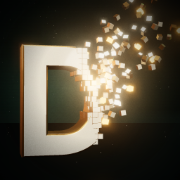
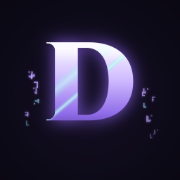
docs(brand): simple enchanted DIN wordmark (#25)

diff --git a/context/v2/brand/source/scene.html b/context/v2/brand/source/scene.html
@@ -1,155 +1,86 @@
-<!doctype html><html><head><meta charset="utf-8">
-<style>
-html,body{margin:0;width:100%;height:100%;overflow:hidden;background:transparent}
-#stage{position:relative;width:100vw;height:100vh;overflow:hidden}
-canvas{position:absolute;inset:0;width:100%;height:100%;display:block}
-.fx{position:absolute;inset:0;pointer-events:none}
-.vignette{background:radial-gradient(ellipse at 50% 46%,transparent 40%,rgba(2,4,4,.55) 78%,rgba(1,2,2,.92) 100%)}
-.grain{opacity:.07;mix-blend-mode:overlay}
-.bars:before,.bars:after{content:"";position:absolute;left:0;right:0;height:8%;background:#020303}
-.bars:before{top:0}.bars:after{bottom:0}
-.title{position:absolute;left:0;right:0;text-align:center;color:#efe4c6;font-family:"Segoe UI","Helvetica Neue",Arial,sans-serif}
-.title .name{font-weight:300;font-size:var(--name,30px);letter-spacing:.78em;padding-left:.78em;text-shadow:0 0 22px rgba(255,200,130,.35)}
-.title .rule{display:flex;align-items:center;justify-content:center;gap:20px;margin-top:var(--gap,14px);font-weight:600;font-size:var(--sub,11px);letter-spacing:.6em;padding-left:.6em;color:#c9a35a}
-.title .rule i{display:block;width:var(--line,80px);height:1px;background:linear-gradient(90deg,transparent,#c9a35a)}
-.title .rule i:last-child{transform:scaleX(-1)}
-</style></head><body><div id="stage"></div>
-<script type="importmap">{"imports":{"three":"https://cdn.jsdelivr.net/npm/three@0.160.0/build/three.module.js","three/addons/":"https://cdn.jsdelivr.net/npm/three@0.160.0/examples/jsm/"}}</script>
-<script type="module">
-import * as THREE from 'three';
-import { FontLoader } from 'three/addons/loaders/FontLoader.js';
-import { TextGeometry } from 'three/addons/geometries/TextGeometry.js';
-import { RoomEnvironment } from 'three/addons/environments/RoomEnvironment.js';
-import { EffectComposer } from 'three/addons/postprocessing/EffectComposer.js';
-import { RenderPass } from 'three/addons/postprocessing/RenderPass.js';
-import { UnrealBloomPass } from 'three/addons/postprocessing/UnrealBloomPass.js';
-import { OutputPass } from 'three/addons/postprocessing/OutputPass.js';
+<!doctype html><html lang="en"><head><meta charset="utf-8"><title>DIN brand</title>
+<link href="https://fonts.googleapis.com/css2?family=Cinzel:wght@700;900&family=Inter:wght@300;600&display=block" rel="stylesheet">
+<style>html,body{margin:0;width:100%;height:100%;overflow:hidden;background:transparent}canvas{display:block}</style></head><body><canvas id="c"></canvas>
+<script>
+// DIN — enchanted. Modes: keyart | logo (transparent; &title=0 for the mark only) | emblem.
+const Q = new URLSearchParams(location.search), MODE = Q.get('mode') || 'keyart', TITLE = Q.get('title') !== '0';
+const W = innerWidth, H = innerHeight, dpr = devicePixelRatio, cv = document.getElementById('c');
+cv.width = W * dpr; cv.height = H * dpr; cv.style.width = W + 'px'; cv.style.height = H + 'px';
+const g = cv.getContext('2d'); g.scale(dpr, dpr);
+let seed = +(Q.get('seed') || 5); const rnd = () => (seed = (seed * 16807) % 2147483647) / 2147483647;
+const COL = { white: '#f6f1ff', lilac: '#cdb8ff', violet: '#8f6be8', indigo: '#3a2a78', teal: '#7ff5e0', bg0: '#0a0812', bg1: '#140f24', cream: '#eee3be', gold: '#c9a35a' };
 
-const P = new URLSearchParams(location.search);
-const MODE = P.get('mode') || 'keyart';          // keyart | logo | emblem
-const TEXT = MODE === 'emblem' ? 'D' : 'DIN';
-const W = innerWidth, H = innerHeight, stage = document.getElementById('stage');
-const rnd = (() => { let s = +(P.get('seed') || 7); return () => (s = (s * 16807) % 2147483647) / 2147483647; })();
-
-const renderer = new THREE.WebGLRenderer({ antialias: true, alpha: true, preserveDrawingBuffer: true });
-renderer.setPixelRatio(devicePixelRatio); renderer.setSize(W, H); renderer.setClearColor(0, 0);
-renderer.shadowMap.enabled = true; renderer.shadowMap.type = THREE.PCFSoftShadowMap;
-renderer.toneMapping = THREE.ACESFilmicToneMapping; renderer.toneMappingExposure = 1.0;
-renderer.localClippingEnabled = true;
-stage.appendChild(renderer.domElement);
-const scene = new THREE.Scene();
-scene.environment = new THREE.PMREMGenerator(renderer).fromScene(new RoomEnvironment(), .04).texture;
-scene.environmentIntensity = .35;
-const camera = new THREE.PerspectiveCamera(MODE === 'emblem' ? 26 : 24, W / H, .1, 500);
-
-// ---------- materials ----------
-const face = new THREE.MeshPhysicalMaterial({ color: '#efe3c2', roughness: .42, metalness: .05, clearcoat: .35, clearcoatRoughness: .4 });
-const side = new THREE.MeshPhysicalMaterial({ color: '#b98d45', roughness: .32, metalness: .95 });
-const ember = new THREE.MeshStandardMaterial({ color: '#2a1a08', emissive: new THREE.Color('#ffb040'), emissiveIntensity: 3.2 });
-// a few cubes are grass blocks: the world forming as the letters break apart
-function pixTex(draw) { const c = document.createElement('canvas'); c.width = c.height = 16; draw(c.getContext('2d')); const t = new THREE.CanvasTexture(c); t.magFilter = THREE.NearestFilter; t.colorSpace = THREE.SRGBColorSpace; return t; }
-const pick = a => a[Math.floor(rnd() * a.length)];
-const gTop = pixTex(g => { for (let y = 0; y < 16; y++) for (let x = 0; x < 16; x++) { g.fillStyle = pick(['#7fae45', '#8fbe52', '#6f9e3c', '#9bc95c']); g.fillRect(x, y, 1, 1); } });
-const gSide = pixTex(g => { for (let y = 0; y < 16; y++) for (let x = 0; x < 16; x++) { g.fillStyle = pick(['#86603f', '#7a5739', '#93694a', '#6c4d34']); g.fillRect(x, y, 1, 1); } for (let x = 0; x < 16; x++) { const d = 3 + Math.floor(rnd() * 3); for (let y = 0; y < d; y++) { g.fillStyle = pick(['#7fae45', '#8fbe52', '#6f9e3c']); g.fillRect(x, y, 1, 1); } } });
-const gs = new THREE.MeshStandardMaterial({ map: gSide, roughness: .8 }), gt = new THREE.MeshStandardMaterial({ map: gTop, roughness: .8 });
-const GRASS = [gs, gs, gt, gs, gs, gs];
-
-// ---------- letters ----------
-const font = await new Promise((ok, no) => new FontLoader().load('https://cdn.jsdelivr.net/npm/three@0.160.0/examples/fonts/helvetiker_bold.typeface.json', ok, undefined, no));
-const SIZE = 7, DEPTH = 2.0;
-const geo = new TextGeometry(TEXT, { font, size: SIZE, height: DEPTH, curveSegments: 16, bevelEnabled: true, bevelThickness: .22, bevelSize: .12, bevelSegments: 5 });
-geo.computeBoundingBox(); const bb = geo.boundingBox; const cx = (bb.max.x + bb.min.x) / 2;
-geo.translate(-cx, -bb.min.y, -(bb.max.z + bb.min.z) / 2); geo.computeBoundingBox();
-const B = geo.boundingBox, width = B.max.x - B.min.x;
-const logo = new THREE.Group(); scene.add(logo);
-
-// break-up front: solid where u = x + k*y < cut
-const K = .22, CUT = B.min.x + width * (MODE === 'emblem' ? .84 : MODE === 'logo' ? .9 : .87);
-const n = new THREE.Vector3(-1, -K, 0); const len = n.length(); n.normalize();
-const clip = new THREE.Plane(n, CUT / len);       // keeps points where n·p + c >= 0  ->  x + K*y <= CUT
-const faceC = face.clone(), sideC = side.clone(); faceC.clippingPlanes = sideC.clippingPlanes = [clip]; faceC.clipShadows = sideC.clipShadows = true;
-const solid = new THREE.Mesh(geo, [faceC, sideC]); solid.castShadow = solid.receiveShadow = true; logo.add(solid);
-
-// voxelise the letters beyond the cut by ray-testing the solid shape
-const probe = new THREE.Mesh(geo, new THREE.MeshBasicMaterial({ side: THREE.DoubleSide }));
-const ray = new THREE.Raycaster(); const V = .36, cubes = [];
-const zLayers = Math.max(1, Math.round((B.max.z - B.min.z) / V));
-for (let y = B.min.y + V / 2; y < B.max.y; y += V) for (let x = B.min.x + V / 2; x < B.max.x; x += V) {
-  const u = x + K * y; if (u < CUT - V) continue;
-  ray.set(new THREE.Vector3(x, y, 50), new THREE.Vector3(0, 0, -1));
-  if (!ray.intersectObject(probe).length) continue;
-  for (let zi = 0; zi < zLayers; zi++) cubes.push({ x, y, z: B.max.z - V / 2 - zi * V, d: u - CUT });
+// Original abstract runes: a stem, a tick or two and a detached dot on a 4x5 grid. Not letters, not a copied script.
+function makeRune() {
+  const m = Array.from({ length: 5 }, () => [0, 0, 0, 0]);
+  const stem = Math.floor(rnd() * 4), from = Math.floor(rnd() * 2), to = 3 + Math.floor(rnd() * 2);
+  for (let y = from; y <= to; y++) m[y][stem] = 1;
+  for (let k = 0; k < 1 + Math.floor(rnd() * 2); k++) { const y = from + Math.floor(rnd() * (to - from + 1)), dir = stem < 2 ? 1 : -1, len = 1 + Math.floor(rnd() * 2); for (let i = 1; i <= len; i++) { const x = stem + dir * i; if (x >= 0 && x < 4) m[y][x] = 1; } }
+  const dy = rnd() < .5 ? 0 : 4, dx = stem < 2 ? 3 : 0; if (!m[dy][dx]) m[dy][dx] = 1;
+  return m;
 }
-const dMax = Math.max(...cubes.map(c => c.d));
-const buckets = new Map(); const add = (mats, m) => { if (!buckets.has(mats)) buckets.set(mats, []); buckets.get(mats).push(m); };
-const FACE = [side, side, side, side, face, side];
-for (const c of cubes) {
-  const t = Math.max(0, c.d) / dMax;                    // 0 at the break, 1 at the far edge
-  const noise = (rnd() - .5) * .35;
-  const loose = t + noise > .2;
-  if (loose && rnd() < Math.min(.85, (t + noise) * 1.25)) continue;  // thin out as it disperses
-  const m = new THREE.Matrix4();
-  if (!loose) { m.makeTranslation(c.x, c.y, c.z); add(FACE, m); continue; }
-  const f = Math.pow(t + Math.max(0, noise), 1.6);
-  const pos = new THREE.Vector3(c.x + f * (3.5 + rnd() * 3), c.y + f * (4 + rnd() * 5), c.z + f * (rnd() * 6 - 1));
-  const rot = new THREE.Euler(f * (rnd() - .5) * 5, f * (rnd() - .5) * 5, f * (rnd() - .5) * 5);
-  const s = 1 - f * .45 * rnd();
-  m.compose(pos, new THREE.Quaternion().setFromEuler(rot), new THREE.Vector3(s, s, s));
-  const r = rnd();
-  add(r < .07 ? [ember, ember, ember, ember, ember, ember] : (f > .5 && r < .2) ? GRASS : FACE, m);
+const RUNES = Array.from({ length: 16 }, makeRune);
+function rune(x, y, u, alpha, color) {
+  const r = RUNES[Math.floor(rnd() * RUNES.length)]; g.globalAlpha = alpha; g.fillStyle = color;
+  r.forEach((row, j) => row.forEach((k, i) => k && g.fillRect(Math.round(x + i * u), Math.round(y + j * u), Math.ceil(u), Math.ceil(u)))); g.globalAlpha = 1;
 }
-const cube = new THREE.BoxGeometry(V * .96, V * .96, V * .96);
-for (const [mats, list] of buckets) { const im = new THREE.InstancedMesh(cube, mats, list.length); list.forEach((m, i) => im.setMatrixAt(i, m)); im.castShadow = im.receiveShadow = true; logo.add(im); }
-
-// ---------- lights ----------
-const key = new THREE.SpotLight('#ffd7a0', 260, 120, .42, .6, 1.6); key.position.set(-14, 22, 24); key.target.position.set(0, 3, 0);
-key.castShadow = true; key.shadow.mapSize.set(2048, 2048); key.shadow.bias = -.0004; scene.add(key, key.target);
-const rim = new THREE.DirectionalLight('#7fe0c0', 2.2); rim.position.set(18, 10, -20); scene.add(rim);
-const rim2 = new THREE.DirectionalLight('#ffb070', 1.4); rim2.position.set(-20, 4, -16); scene.add(rim2);
-const fill = new THREE.HemisphereLight('#2d3b38', '#0a0806', .5); scene.add(fill);
-const glow = new THREE.PointLight('#ffb040', 14, 12, 2); glow.position.set(B.min.x + width * .8, 5, 2); logo.add(glow);
-
-// ---------- environment ----------
-const composer = new EffectComposer(renderer); composer.addPass(new RenderPass(scene, camera));
-if (MODE !== 'logo') {
-  scene.background = new THREE.Color('#050807');
-  scene.fog = new THREE.Fog('#050807', 40, 120);
-  const floor = new THREE.Mesh(new THREE.PlaneGeometry(400, 400), new THREE.MeshPhysicalMaterial({ color: '#0b100e', roughness: .28, metalness: .2, clearcoat: .6, clearcoatRoughness: .25 }));
-  floor.rotation.x = -Math.PI / 2; floor.receiveShadow = true; scene.add(floor);
-  // haze glow behind the letters
-  const hc = document.createElement('canvas'); hc.width = hc.height = 256; const hg = hc.getContext('2d'); const gr = hg.createRadialGradient(128, 128, 0, 128, 128, 128);
-  gr.addColorStop(0, 'rgba(90,130,110,.32)'); gr.addColorStop(.35, 'rgba(50,75,62,.12)'); gr.addColorStop(1, 'rgba(0,0,0,0)'); hg.fillStyle = gr; hg.fillRect(0, 0, 256, 256);
-  const ht = new THREE.CanvasTexture(hc); ht.colorSpace = THREE.SRGBColorSpace;
-  const haze = new THREE.Sprite(new THREE.SpriteMaterial({ map: ht, transparent: true, depthWrite: false, blending: THREE.AdditiveBlending, fog: false }));
-  haze.position.set(2, 5, -30); haze.scale.set(90, 55, 1); scene.add(haze);
-  // dust motes in the key light
-  const N = 600, pos = new Float32Array(N * 3); for (let i = 0; i < N; i++) { pos[i * 3] = (rnd() - .5) * 60; pos[i * 3 + 1] = rnd() * 22; pos[i * 3 + 2] = -25 + rnd() * 40; }
-  const pg = new THREE.BufferGeometry(); pg.setAttribute('position', new THREE.BufferAttribute(pos, 3));
-  const dc = document.createElement('canvas'); dc.width = dc.height = 32; const dg = dc.getContext('2d'); const dgr = dg.createRadialGradient(16, 16, 0, 16, 16, 16); dgr.addColorStop(0, 'rgba(255,225,180,1)'); dgr.addColorStop(1, 'rgba(255,200,140,0)'); dg.fillStyle = dgr; dg.fillRect(0, 0, 32, 32);
-  scene.add(new THREE.Points(pg, new THREE.PointsMaterial({ size: .16, map: new THREE.CanvasTexture(dc), transparent: true, depthWrite: false, blending: THREE.AdditiveBlending, opacity: .7 })));
-  composer.addPass(new UnrealBloomPass(new THREE.Vector2(W, H), .35, .5, .92));
+// Runes drift in two loose clusters either side of the word, rising toward it and fading as they near it.
+function runeStream(cx, cy, halfW, height, count, uMax, reach = .9) {
+  g.save(); g.shadowColor = COL.violet; g.shadowBlur = uMax * 3;
+  for (let i = 0; i < count; i++) {
+    const side = i % 2 ? 1 : -1, t = rnd();                // t: 0 = outer and low, 1 = close to the word
+    const x = cx + side * (halfW + (1 - t) * halfW * reach + rnd() * halfW * .15);
+    const y = cy + height * (.45 - t * .7) + (rnd() - .5) * height * .3;
+    const u = Math.max(1.4, uMax * (.55 + rnd() * .45));
+    rune(x - 2 * u, y - 2.5 * u, u, .25 + .55 * t, rnd() < .3 ? COL.teal : COL.lilac);
+  }
+  g.restore();
 }
-composer.addPass(new OutputPass());
-
-if (MODE === 'emblem') { camera.position.set(-1, 4, 27); camera.lookAt(1.6, 4.4, 0); logo.rotation.y = .14; }
-else if (MODE === 'logo') { camera.position.set(-2, 3.6, 46); camera.lookAt(1.2, 4.6, 0); logo.rotation.y = .16; }
-else { camera.position.set(-5, 2.4, 50); camera.lookAt(1.2, 2.2, 0); logo.rotation.y = .16; }
-
-// ---------- 2D overlays ----------
-function addFx() {
-  const v = document.createElement('div'); v.className = 'fx vignette'; stage.appendChild(v);
-  const g = document.createElement('canvas'); g.className = 'fx grain'; g.width = W; g.height = H; const gc = g.getContext('2d'); const id = gc.createImageData(W, H);
-  for (let i = 0; i < id.data.length; i += 4) { const q = 128 + (rnd() - .5) * 255; id.data[i] = id.data[i + 1] = id.data[i + 2] = q; id.data[i + 3] = 255; } gc.putImageData(id, 0, 0); stage.appendChild(g);
+// The enchanted word: soft violet glow, smooth lilac-to-indigo fill, a crisp top light, two diagonal glint bands.
+function enchanted(text, cx, cy, size, weight = 900) {
+  const font = `${weight} ${size}px Cinzel`;
+  g.save(); g.font = font; g.textAlign = 'center'; g.textBaseline = 'middle';
+  g.shadowColor = 'rgba(150,105,255,.85)'; g.shadowBlur = size * .28; g.fillStyle = COL.indigo; g.fillText(text, cx, cy); g.restore();
+  const oc = document.createElement('canvas'); oc.width = W * dpr; oc.height = H * dpr; const o = oc.getContext('2d'); o.scale(dpr, dpr);
+  o.font = font; o.textAlign = 'center'; o.textBaseline = 'middle';
+  const fill = o.createLinearGradient(0, cy - size * .42, 0, cy + size * .42);
+  fill.addColorStop(0, COL.white); fill.addColorStop(.35, COL.lilac); fill.addColorStop(.7, COL.violet); fill.addColorStop(1, COL.indigo);
+  o.fillStyle = fill; o.fillText(text, cx, cy);
+  o.globalCompositeOperation = 'source-atop';
+  const w = o.measureText(text).width;
+  for (const [pos, wd, a] of [[.32, .05, .55], [.44, .022, .8]]) {
+    const gl = o.createLinearGradient(cx - w / 2, cy - size / 2, cx + w / 2, cy + size / 2);
+    gl.addColorStop(Math.max(0, pos - wd), 'rgba(127,245,224,0)'); gl.addColorStop(pos, `rgba(200,255,245,${a})`); gl.addColorStop(Math.min(1, pos + wd), 'rgba(127,245,224,0)');
+    o.fillStyle = gl; o.fillRect(0, 0, W, H);
+  }
+  const top = o.createLinearGradient(0, cy - size * .42, 0, cy - size * .3); top.addColorStop(0, 'rgba(255,255,255,.7)'); top.addColorStop(1, 'rgba(255,255,255,0)');
+  o.fillStyle = top; o.fillRect(0, 0, W, H);
+  g.drawImage(oc, 0, 0, W, H);
+  return w;
 }
-function addTitle(top, scale = 1) {
-  const t = document.createElement('div'); t.className = 'title'; t.style.top = top;
-  for (const [k, v] of [['--name', 30], ['--sub', 11], ['--gap', 14], ['--line', 80]]) t.style.setProperty(k, `${v * scale}px`);
-  t.innerHTML = '<div class="name">JON VINCENT DIN</div><div class="rule"><i></i>WORLD OF BUILDS<i></i></div>'; stage.appendChild(t);
+function credit(cx, y, scale) {
+  g.save(); g.textAlign = 'center'; g.fillStyle = COL.cream; g.font = `300 ${22 * scale}px Inter`; g.letterSpacing = `${17 * scale}px`; g.fillText('JON VINCENT DIN', cx + 8 * scale, y);
+  g.font = `600 ${10.5 * scale}px Inter`; g.letterSpacing = `${6.5 * scale}px`; g.fillStyle = COL.lilac; g.fillText('WORLD OF BUILDS', cx + 3 * scale, y + 28 * scale);
+  const lw = 70 * scale; g.fillStyle = 'rgba(205,184,255,.5)'; g.fillRect(cx - 120 * scale - lw, y + 24 * scale, lw, 1); g.fillRect(cx + 120 * scale, y + 24 * scale, lw, 1); g.restore();
 }
-if (MODE === 'keyart') { addFx(); if (P.get('title') !== '0') addTitle('77%', W / 1920 * 1.2); const b = document.createElement('div'); b.className = 'fx bars'; stage.appendChild(b); }
-if (MODE === 'emblem') addFx();
-if (MODE === 'logo' && P.get('title') !== '0') addTitle('80%', W / 1200 * 1.1);
-
-for (let i = 0; i < 3; i++) MODE === 'logo' ? renderer.render(scene, camera) : composer.render();
-window.__done = true;
+function backdrop(cy) {
+  const bg = g.createRadialGradient(W / 2, cy, 0, W / 2, cy, Math.max(W, H) * .75);
+  bg.addColorStop(0, COL.bg1); bg.addColorStop(1, COL.bg0); g.fillStyle = bg; g.fillRect(0, 0, W, H);
+}
+(async () => {
+  await Promise.all(['900 100px Cinzel', '300 20px Inter', '600 10px Inter'].map(f => document.fonts.load(f)));
+  if (MODE === 'keyart') {
+    const cy = H * .45, size = H * .3; backdrop(cy);
+    const w = enchanted('DIN', W / 2, cy, size); runeStream(W / 2, cy, w / 2 + size * .25, size, 26, H / 200);
+    if (TITLE) credit(W / 2, H * .78, H / 720);
+  } else if (MODE === 'emblem') {
+    const cy = H * .53, size = H * .62; backdrop(cy);
+    const w = enchanted('D', W / 2, cy, size); runeStream(W / 2, cy, w / 2 + size * .02, size * .9, 16, H / 120, .22);
+  } else {
+    const size = H * (TITLE ? .42 : .62), cy = TITLE ? H * .4 : H * .52;
+    const w = enchanted('DIN', W / 2, cy, size); runeStream(W / 2, cy, w / 2 + size * .12, size, 18, size / 70, .4);
+    if (TITLE) credit(W / 2, H * .8, H / 600 * 1.1);
+  }
+  window.__done = true;
+})();
 </script></body></html>

diff --git a/context/v2/BRAND.md b/context/v2/BRAND.md
@@ -1,35 +1,48 @@
-# Brand — DIN, breaking into blocks
+# Brand — DIN, enchanted
 
-Revised 2026-10-26. History: a flat pixel "JVD" logo, then block-built "JVD" and "DIN" scenes at dusk. The owner rejected each one: not cinematic, letters built from cubes looked crude, textures looked cheap, and the landscape scene didn't fit. The owner chose this direction: **solid letters whose edges break into blocks**.
+Revised 2026-10-26. The owner asked for something **simple and iconic, not cinematic**, and chose the "Enchanted" concept from a round of options. Earlier directions (pixel JVD, block-built letters, letters breaking into cubes, cinematic dusk scenes) were rejected; see PROGRESS.md.
 
 ## Concept
 
-- **Solid, premium letters.** "DIN" (Jon's surname) as a heavy sans-serif sculpted in 3D: warm cream stone faces with a soft clearcoat, and polished gold-metal sides and bevels.
-- **Minecraft as a hint, not a costume.** The N's right stem breaks apart into cubes. Next to the break they are still aligned in a grid; further out they drift up and to the right, turning and thinning out. A few glow like embers, and a few of the far ones are tiny grass blocks: the world forming as the letter breaks apart.
-- **A film title card.** Near-black void with an olive-teal haze, a glossy dark floor, a warm key spotlight, teal and amber rim lights, dust in the light, light bloom, film grain and letterbox. "JON VINCENT DIN" in light, widely tracked sans-serif, over "WORLD OF BUILDS" in small gold capitals between hairlines.
-- **Emblem.** The same treatment on a single "D".
+- **One word, one effect.** "DIN" (Jon's surname) in a classical serif (Cinzel Black), carrying the shimmer of an enchanted item from the game: a lilac-white to violet-indigo fill, a crisp top light, two thin diagonal teal glints, and a soft violet glow.
+- **Runes as the only decoration.** A few small, original pixel runes drift in loose clusters beside the word, rising toward it and fading as they get close, like the glyphs that float into an enchanting table. They never overlap the letters or the credit line. They are generated from simple rules (a stem, a tick or two, a detached dot on a 4×5 grid), so they are not letters and not a copied script.
+- **Credit line.** "JON VINCENT DIN" in light, widely tracked Inter, over "WORLD OF BUILDS" in small lilac capitals between hairlines.
+- **Emblem.** A single enchanted "D" with a few runes, for square spaces.
 
 ## Files (all PNG, in `brand/`)
 
 | File | Size | Use |
 | --- | --- | --- |
-| `din-keyart.png` | 2560×1440 | Hero key art: intro poster frame, social/OG image, README banner |
-| `din-logo.png` | 1600×1222, transparent | Primary logo with name and tagline, for dark backgrounds |
-| `din-logo-mark-only.png` | 1330×875, transparent | Letters and cubes only. HUD/header logo (the link to `/editor`), 44–64px tall |
-| `din-emblem.png` | 1024×1024 | Square "D" emblem: avatar, app icon, OG fallback |
+| `din-keyart.png` | 2560×1440 | Banner/OG image on the deep violet background |
+| `din-logo.png` | 1933×994, transparent | Primary logo with the credit line |
+| `din-logo-mark-only.png` | 2466×909, transparent | Word and runes only. Header/HUD logo (the link to `/editor`) |
+| `din-emblem.png` | 1024×1024 | Square "D" emblem: avatar, app icon |
 | `din-icon-512.png`, `-180.png`, `-64.png`, `-32.png` | as named | PWA icon, Apple touch icon, favicons |
+
+## Colors
+
+| Token | Value | Use |
+| --- | --- | --- |
+| `--enchant-white` | #f6f1ff | Top of the letter fill |
+| `--enchant-lilac` | #cdb8ff | Fill, runes, tagline |
+| `--enchant-violet` | #8f6be8 | Fill, glow |
+| `--enchant-indigo` | #3a2a78 | Bottom of the fill |
+| `--enchant-teal` | #7ff5e0 | Glints, some runes |
+| `--enchant-bg` | #0a0812 → #140f24 | Key-art and emblem background |
+
+This violet accent is new next to the site's olive/forest palette (DESIGN_SYSTEM.md). Decide in V2-01 whether violet becomes the site accent or stays reserved for the brand mark.
 
 ## Rules
 
-- Dark backgrounds only (#050807–#1c2e22). The transparent logos are lit for dark surroundings.
-- Don't recolor, stretch or crop into the cube trail; the trail is part of the mark. Scale down only.
-- Below 44px tall, use the emblem icons.
+- Use on dark backgrounds only. The transparent logos rely on their glow.
+- Don't recolor, stretch or add effects. Scale down only.
+- Below about 120px wide, use the emblem icons instead of the wordmark.
 - The header logo's accessible name is "Jon Vincent Din — editor sign-in"; its `alt` text is "DIN — Jon Vincent Din".
-- The key art's text is part of the image. On the live page, set the name in real HTML and use a text-free render (`&title=0`) where the text must be selectable.
+- On the live site, set the name and tagline as real HTML text where they must be selectable; the PNGs have them baked in.
 
 ## Regenerating
 
-`brand/source/scene.html` builds the scene with three.js 0.160.0, loaded from jsDelivr for design tooling only; the site keeps its own renderer. The letters use the MgOpen Moderna typeface that ships with three.js as `helvetiker_bold` (permissive MgOpen license).
+`brand/source/scene.html` draws everything on a 2D canvas. It loads Cinzel and Inter from Google Fonts (both under the SIL Open Font License).
 
 ```
 node context/v2/brand/source/render.mjs <out.png> keyart 1920 1080 1.3333333
@@ -40,13 +53,8 @@ node context/v2/brand/source/post.mjs trim   <in.png> <out.png>
 node context/v2/brand/source/post.mjs resize <in.png> <out.png> <size>
 ```
 
-Rendering needs Microsoft Edge (Playwright's `msedge` channel) and network access. The `seed` query parameter changes the cube scatter.
+Rendering needs Microsoft Edge (Playwright's `msedge` channel) and network access for the fonts. The `seed` query parameter changes the runes.
 
 ## Motion tie-in
 
-The brand is a frozen frame of the intro's main move, so the intro should play it in reverse and then forward:
-
-1. Cubes stream in from the upper right and snap into grid position, assembling D, I and N. The grid cubes then fuse into the solid, smooth letters, with a gold edge-light sweeping across as each letter becomes solid.
-2. On Enter world, the letters break apart into cubes again, as in the key art, but completely. The cubes fly past the camera and become the world the visitor scrolls into.
-
-Use the break-line function from `scene.html` (the solid region is `x + 0.22·y < cut`) so the live animation and the PNGs match.
+The mark animates easily, with no 3D: the runes drift up and fade into the word, and the teal glints sweep across the letters every few seconds, like an enchanted item in the game's inventory. Use it in the intro (features/01-INTRO.md) and as a subtle hover on the header logo. Respect reduced motion: the glint stays still and the runes stay where they are.

diff --git a/context/v2/PROGRESS.md b/context/v2/PROGRESS.md
@@ -51,3 +51,16 @@
 - Re-rendered all `din-*.png` files. The emblem is a breaking "D". The key art dropped from 3.9 MB to 1.7 MB.
 - Updated BRAND.md and the intro, storyboard, milestone and decision references: the intro assembles the letters from cubes and breaks them apart on Enter.
 - Checks: viewed every render, plus a contact sheet on the site background including 64px and 32px icons. All final files came from the committed scripts.
+
+## 2026-10-26 (Asia/Singapore): brand changed to "DIN, enchanted"
+
+- The owner asked to change the breaking-cubes logo and wanted "something simple, iconic", not cinematic.
+- Showed three 3D/serif concepts (pickaxe as the I, enchanted, gold title with a grass block), then eight flat ideas. The owner chose the **Enchanted** concept.
+- Rewrote `brand/source/scene.html` as a 2D canvas render:
+  - Cinzel Black "DIN" with a lilac-to-indigo fill, a top light, two teal glints and a violet glow.
+  - Original procedural pixel runes in loose clusters beside the word, kept clear of the text.
+  - An Inter credit line.
+- Re-rendered all `din-*.png` files. The emblem is an enchanted "D". The key art is 653 KB.
+- BRAND.md rewritten, including the new violet colors. The intro, storyboard, milestone and decision references now describe runes rising into the word and a glint sweep.
+- Open point: violet is new next to the olive site palette; decide in V2-01.
+- Checks: viewed the key art, logo and emblem, plus a contact sheet including the 64px and 32px icons. All final files came from the committed scripts.

diff --git a/context/v2/STORYBOARD.md b/context/v2/STORYBOARD.md
@@ -25,7 +25,7 @@ Notation:
 Keeps the v1 contract: real asset readiness, an explicit **Enter world**, replay, and pause/reduced motion. It is longer and deeper.
 
 1. **Black → world loads.** Letterbox bars. A chunk-loading grid fades in: blocks pop into a low-poly landscape tile by tile, from the centre outward, with progress tied to real asset loading. The pixel progress bar fills like a Minecraft XP bar.
-2. **The logo builds.** Cubes stream in from the upper right, snap into a grid forming D, I and N, then fuse into solid cream-and-gold letters as a gold edge-light sweeps across. A few cubes stay drifting off the N, as in the brand key art.
+2. **The logo appears.** Original pixel runes rise from the edges and fade into "DIN" as it brightens into its enchanted violet fill, then a teal glint sweeps across the letters.
 3. **Ready.** The name types on in pixel type, letter by letter, each letter blinking once like a cursor. Clouds drift in parallax and particles rise. **Enter world** pulses gently. Ready never auto-enters.
 4. **Enter.** The camera dives forward: the logo flies at the viewer and passes overhead, the landscape layers separate in depth (far mountains slowly, near blocks fast), and the cloud layer is punched through. The letterbox bars open vertically, and the sky strips from v1 survive as the final wipe. Spawn's sunrise is waiting underneath. About 2.2s in total.
 5. **Hand-off.** The dive ends with Spawn's hero in place and a "scroll" cue (a pixel mouse whose wheel ticks). Focus moves to `main`.

diff --git a/context/v2/features/01-INTRO.md b/context/v2/features/01-INTRO.md
@@ -9,9 +9,9 @@ States: loading → ready → exiting → entered. Real asset readiness. Ready w
 ## New beats
 
 1. Chunk-loading landscape whose progress follows real loading.
-2. The brand assembles live (BRAND.md → Motion tie-in): cubes stream in and snap into a grid forming D, I and N, then fuse into the solid cream-and-gold letters as a gold edge-light sweeps across.
+2. The brand appears (BRAND.md → Motion tie-in): original runes rise from the edges and fade into the word as "DIN" brightens into its enchanted fill, then a teal glint sweeps across the letters.
 3. The name types on in pixel type, with parallax clouds and rising particles.
-4. Enter → the letters break back into cubes (as in `brand/din-keyart.png`, but completely), and the cubes fly past the camera into the depth dive. The letterbox opens and the sky strips wipe as the last beat. About 2.2s.
+4. Enter → the camera dives forward through the layers and clouds, the letterbox opens, and the sky strips wipe as the last beat. About 2.2s.
 5. Hand-off into Spawn at sunrise with a scroll cue.
 
 ## Acceptance

diff --git a/context/v2/DECISIONS.md b/context/v2/DECISIONS.md
@@ -6,7 +6,7 @@
 - D2. Logo click → `/editor`, a separate page. The editor UI stays plain and functional, with no cinematic motion.
 - D3. Editor sign-in is an emailed one-time code sent only to the owner's Gmail, jonvincent.din@gmail.com. Authority is enforced on the server (AUTH.md).
 - D4. Fewer interactions than v1 (FEATURES.md lists what stays).
-- D5. New logo: DIN, solid cream-and-gold letters breaking into cubes (BRAND.md). The owner rejected "JVD" letters, then letters built entirely from cubes, on 2026-10-26.
+- D5. New logo: DIN, enchanted (BRAND.md). A simple serif wordmark with an enchanted-item shimmer and original runes, chosen on 2026-10-26 after the owner asked for something simple and iconic instead of cinematic.
 - D6. Verification evidence is not committed (TESTING.md).
 
 ## Proposed (approve when the milestone starts)

diff --git a/context/v2/README.md b/context/v2/README.md
@@ -20,7 +20,7 @@ Status (2026-10-25): **specified, not built.** Only these context files and the 
 | A rich interaction on every page (drag inventory, 3×3 workshop, tree pan/zoom, comparisons) | Fewer, lighter interactions (see FEATURES.md) |
 | Intro: shuffled upward exit | Intro: a longer cinematic in which the logo is built from blocks, with depth and a hand-off into scroll |
 | "Edit world" button → `#editor`, signed in with a password | Logo → `/editor` page, signed in with an emailed one-time code |
-| Text "JVD." brand | DIN: solid 3D letters breaking into blocks, as key art, logo and emblem (`brand/`, PNG) |
+| Text "JVD." brand | DIN, enchanted: a serif wordmark with an enchanted shimmer and runes (`brand/`, PNG) |
 
 ## Unchanged and reused
 

diff --git a/context/v2/milestones/02-INTRO-SPAWN.md b/context/v2/milestones/02-INTRO-SPAWN.md
@@ -4,7 +4,7 @@ Dependency: V2-01.
 
 ## Scope
 
-features/01-INTRO.md and features/02-SPAWN.md. Reuse the break-line and cube-scatter logic from `brand/source/scene.html` for the assembly and break-up, and use `brand/din-keyart.png` as the target framing. Implement the depth-dive entry and the block-dissolve exit from Spawn.
+features/01-INTRO.md and features/02-SPAWN.md. Reuse the rune generator and the enchanted fill and glint from `brand/source/scene.html` for the logo reveal. Implement the depth-dive entry and the block-dissolve exit from Spawn.
 
 ## Acceptance
 
